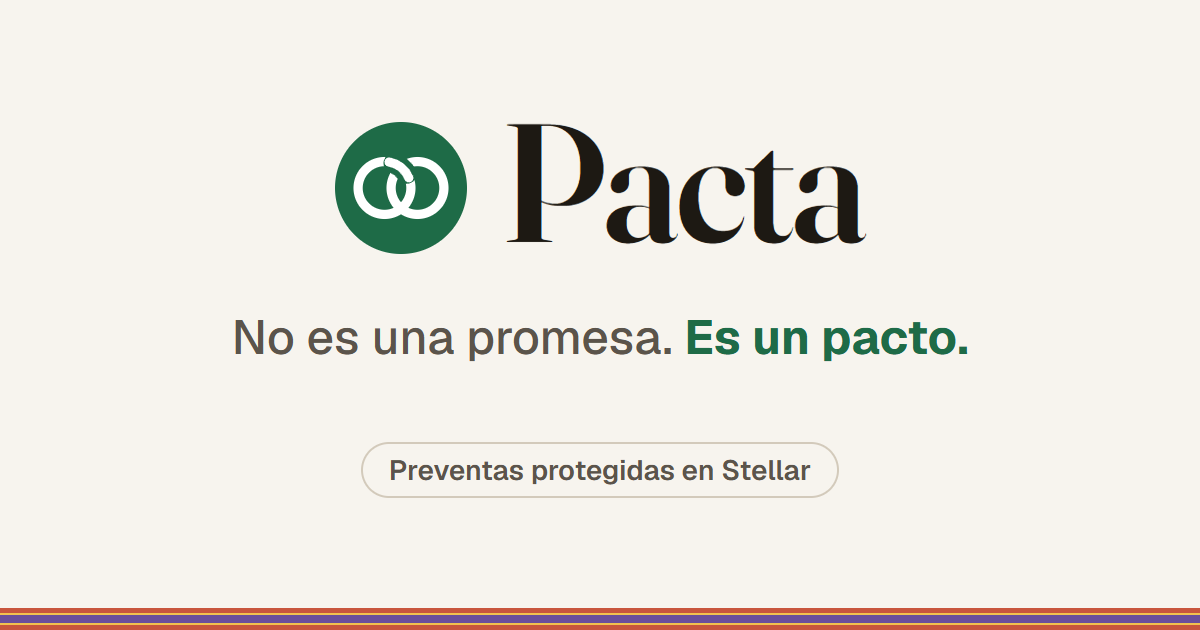
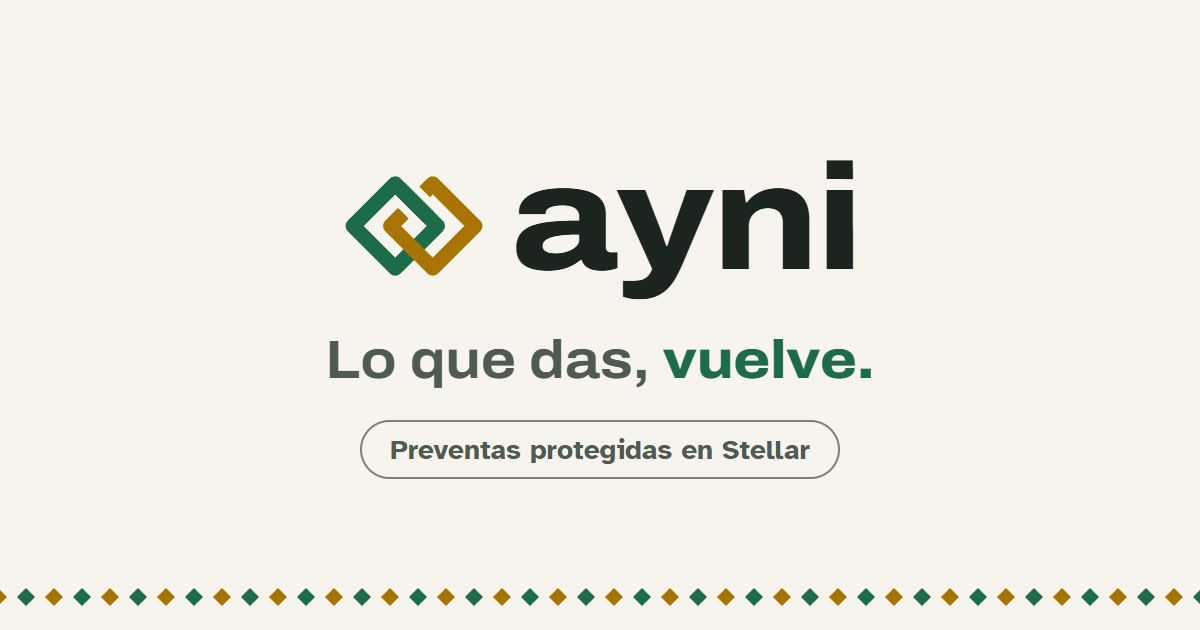
Ayni stage 2: rename Pacta to Ayni (user-visible only)
- AyniMark replaces PactaMark: two diamonds woven like a stitch, green over
  amber at the top, amber over green at the bottom, in token colors. The
  over-under gap is an SVG mask so the mark works on any surface. The
  wordmark is lowercase "ayni" in Archivo at width 115.
- Tagline "Lo que das, vuelve." replaces "No es una promesa. Es un pacto."
  The footer explains ayni in one line.
- Metadata, page titles, header label, link previews, share text, copy in
  pages and components, glossary, test verifier label, and the error
  strings in wizard.ts and despensa.ts (strings only).
- icon.svg (dark-mode aware), apple-icon.png and opengraph-image.png
  redrawn; OG alt text updated.
- Link preview text no longer promises a refund in every case: it says
  the 100% comes back when the minimum isn't reached.
- UI.md and both READMEs use the new name; internal identifiers unchanged.

diff --git a/app/src/components/Logo.tsx b/app/src/components/Logo.tsx
@@ -1,32 +1,56 @@
-// The Pacta mark and wordmark, drawn from the intro video (video/scene.js, mark()):
-// a brand disc with two interlocking rings, the left ring passing over the right one at the top.
-// Colors come from tokens, so the mark follows light and dark mode.
+import { useId } from "react";
 
-const RING = 2.24;
+// The Ayni mark and wordmark (design board "Tejido", docs/design/01–07): two diamonds, green and amber,
+// woven like a stitch. The green one passes over the amber one at the top crossing and under it at the
+// bottom, so neither sits on top of the other: reciprocity. Colors come from tokens, so the mark follows
+// light and dark mode.
+//
+// The board draws the over-under with a stroke in the page color. Here the gap is a mask on the amber
+// diamond instead, so the mark works on any surface (page, card, toast, poster) without knowing its color.
 
-export function PactaMark({ className = "size-7", title }: { className?: string; title?: string }) {
+/** Geometry on a 32×32 grid, shared with the puntada animation. */
+export const MARK = {
+  stroke: 3.2,
+  left: "M12 7 L21 16 L12 25 L3 16 Z",
+  right: "M20 7 L29 16 L20 25 L11 16 Z",
+  /** Where the green strand crosses over the amber one: the gap is cut along this line. */
+  cut: "M13.6 8.6 L18.4 13.4",
+  /** The green strand redrawn over the gap. */
+  over: "M13 8 L19 14",
+} as const;
+
+export type MarkTone = "brand" | "inverse";
+
+const TONE: Record<MarkTone, { left: string; right: string }> = {
+  brand: { left: "stroke-brand", right: "stroke-accent" },
+  // On the inverse surface (bg-ink: toasts), the green strand turns pale so it reads on dark and light ink.
+  inverse: { left: "stroke-brand-soft", right: "stroke-accent" },
+};
+
+export function AyniMark({ className = "size-7", title, tone = "brand" }: { className?: string; title?: string; tone?: MarkTone }) {
+  const maskId = `ayni-cut-${useId().replace(/[^a-zA-Z0-9_-]/g, "")}`;
   const a11y = title ? { role: "img", "aria-label": title } : { "aria-hidden": true };
+  const t = TONE[tone];
   return (
-    <svg viewBox="0 0 32 32" className={`shrink-0 ${className}`} {...a11y}>
-      <circle cx="16" cy="16" r="16" className="fill-brand" />
-      <g fill="none" strokeLinecap="round" className="stroke-brand-ink" strokeWidth={RING}>
-        <circle cx="12" cy="16" r="6.4" />
-        <circle cx="20" cy="16" r="6.4" />
-      </g>
-      {/* Over-under: cut the right ring where the left one crosses it, then redraw the left ring on top. */}
-      <path d="M14.225 9.999A6.4 6.4 0 0 1 17.369 12.516" fill="none" strokeLinecap="round" strokeWidth={4.93} className="stroke-brand" />
-      <path d="M13.115 9.698A6.4 6.4 0 0 1 17.906 13.533" fill="none" strokeLinecap="round" strokeWidth={RING} className="stroke-brand-ink" />
+    <svg viewBox="0 0 32 32" fill="none" strokeLinejoin="round" className={`shrink-0 ${className}`} {...a11y}>
+      <mask id={maskId} maskUnits="userSpaceOnUse" x="0" y="0" width="32" height="32">
+        <rect width="32" height="32" fill="#fff" />
+        <path d={MARK.cut} stroke="#000" strokeWidth={MARK.stroke * 2} strokeLinecap="butt" />
+      </mask>
+      <path d={MARK.left} strokeWidth={MARK.stroke} className={t.left} />
+      <path d={MARK.right} strokeWidth={MARK.stroke} className={t.right} mask={`url(#${maskId})`} />
+      <path d={MARK.over} strokeWidth={MARK.stroke} strokeLinecap="butt" className={t.left} />
     </svg>
   );
 }
 
-/** Mark + "Pacta" in the display face. `size` scales both. */
+/** Mark + "ayni" (lowercase, as on the boards) in Archivo at width 115. `size` scales both. */
 export function Logo({ size = "md", className = "" }: { size?: "md" | "lg"; className?: string }) {
-  const s = size === "lg" ? { mark: "size-9", text: "text-3xl" } : { mark: "size-7", text: "text-xl" };
+  const s = size === "lg" ? { mark: "size-9", text: "text-[1.875rem]" } : { mark: "size-8", text: "text-2xl" };
   return (
     <span className={`inline-flex items-center gap-2 ${className}`}>
-      <PactaMark className={s.mark} />
-      <span className={`font-display font-semibold tracking-tight text-ink ${s.text}`}>Pacta</span>
+      <AyniMark className={s.mark} />
+      <span className={`font-display leading-none font-extrabold tracking-[-0.01em] text-ink [font-stretch:115%] ${s.text}`}>ayni</span>
     </span>
   );
 }

diff --git a/app/src/app/layout.tsx b/app/src/app/layout.tsx
@@ -3,7 +3,7 @@ import Link from "next/link";
 import { Archivo, Atkinson_Hyperlegible } from "next/font/google";
 import "@pollar/react/styles.css";
 import "./globals.css";
-import { PactaMark } from "@/components/Logo";
+import { AyniMark } from "@/components/Logo";
 import { SiteHeader } from "@/components/SiteHeader";
 import { Providers } from "@/components/Wallet";
 
@@ -21,11 +21,11 @@ const SITE_URL =
 
 export const metadata: Metadata = {
   metadataBase: new URL(SITE_URL),
-  applicationName: "Pacta",
-  title: { default: "Pacta · No es una promesa. Es un pacto.", template: "%s · Pacta" },
+  applicationName: "Ayni",
+  title: { default: "Ayni · Lo que das, vuelve.", template: "%s · Ayni" },
   description: DESCRIPTION,
-  openGraph: { siteName: "Pacta", type: "website", locale: "es_BO", title: "Pacta", description: DESCRIPTION },
-  twitter: { card: "summary_large_image", title: "Pacta", description: DESCRIPTION },
+  openGraph: { siteName: "Ayni", type: "website", locale: "es_BO", title: "Ayni · Lo que das, vuelve.", description: DESCRIPTION },
+  twitter: { card: "summary_large_image", title: "Ayni · Lo que das, vuelve.", description: DESCRIPTION },
 };
 
 export const viewport: Viewport = {
@@ -46,16 +46,19 @@ export default function RootLayout({ children }: Readonly<{ children: React.Reac
           <footer className="mx-auto mt-8 max-w-6xl border-t border-line px-4 pt-6 pb-28 text-sm text-ink-2 lg:pb-10 print:hidden">
             <div className="flex flex-wrap items-center justify-between gap-x-6 gap-y-3">
               <p className="flex items-center gap-2">
-                <PactaMark className="size-5" />
+                <AyniMark className="size-6" />
                 <span>
-                  <b className="font-semibold text-ink">Pacta.</b> No es una promesa. Es un pacto.
+                  <b className="font-semibold text-ink">Ayni.</b> Lo que das, vuelve.
                 </span>
               </p>
               <Link href="/transparencia" className="link">
                 Transparencia: el contrato en vivo
               </Link>
             </div>
-            <p className="mt-3">Stellar testnet · Hackathon Stellar Bolivia 2026 · Los montos son de prueba.</p>
+            <p className="mt-3">
+              <i>Ayni</i> es la reciprocidad andina: hoy por ti, mañana por mí.
+            </p>
+            <p className="mt-1">Stellar testnet · Hackathon Stellar Bolivia 2026 · Los montos son de prueba.</p>
           </footer>
         </Providers>
       </body>

diff --git a/app/src/app/campaign/[id]/page.tsx b/app/src/app/campaign/[id]/page.tsx
@@ -25,7 +25,7 @@ export async function generateMetadata({ params }: { params: Promise<{ id: strin
     const price = formatMoney(c.unit_price, decimalsFor(category));
     const description = [
       `${price} por ${category.unit.singular}, precio bloqueado.`,
-      "Tu pago queda protegido en Stellar hasta que recibes tu pedido; si no se cumple, se te devuelve.",
+      "Tu pago queda protegido en Stellar hasta que recibes tu pedido. Si no se llega al mínimo, se te devuelve el 100%.",
       meta.description,
     ]
       .filter(Boolean)
@@ -38,11 +38,11 @@ export async function generateMetadata({ params }: { params: Promise<{ id: strin
       openGraph: {
         title: c.title,
         description,
-        siteName: "Pacta",
+        siteName: "Ayni",
         type: "website",
         locale: "es_BO",
         // A route's openGraph replaces the parent's, so fall back to the site card explicitly.
-        images: [image ? { url: image } : { url: "/opengraph-image.png", width: 1200, height: 630, alt: "Pacta" }],
+        images: [image ? { url: image } : { url: "/opengraph-image.png", width: 1200, height: 630, alt: "Ayni: Lo que das, vuelve. Preventas protegidas en Stellar." }],
       },
       twitter: { card: "summary_large_image", title: c.title, description, images: [image ?? "/opengraph-image.png"] },
     };

diff --git a/app/src/lib/wizard.ts b/app/src/lib/wizard.ts
@@ -203,7 +203,7 @@ export function validateStep(step: WizardStep, d: CampaignDraft, ctx: Validation
       const v = d.verifier.trim();
       if (!ctx.isAddress(v)) e.verifier = "Ingresa la dirección de Stellar del verificador (empieza con G…).";
       else if (ctx.me && v === ctx.me) e.verifier = "El verificador tiene que ser otra persona o institución.";
-      else if (ctx.verifierAllowed === false) e.verifier = "Este verificador no está autorizado en Pacta. Elige uno de la lista o pide que lo autoricen.";
+      else if (ctx.verifierAllowed === false) e.verifier = "Este verificador no está autorizado en Ayni. Elige uno de la lista o pide que lo autoricen.";
       const size = inlineEstimate(d);
       if (size > INLINE_HARD_LIMIT) e.size = `Los detalles ocupan ${size} bytes (máximo ${INLINE_HARD_LIMIT}). Acorta la descripción.`;
       break;

diff --git a/app/src/app/p/[address]/ProducerProfile.tsx b/app/src/app/p/[address]/ProducerProfile.tsx
@@ -87,7 +87,7 @@ export default function ProducerProfile({ address }: { address: string }) {
               <>solo puede vender con pago contra entrega hasta cumplir 3 preventas seguidas por cada incumplimiento.</>
             )}
           </p>
-          <p className="text-sm text-ink-2">Este historial está en el contrato de Stellar: nadie, ni Pacta, puede editarlo ni borrar un incumplimiento.</p>
+          <p className="text-sm text-ink-2">Este historial está en el contrato de Stellar: nadie, ni Ayni, puede editarlo ni borrar un incumplimiento.</p>
           <details className="group">
             <summary className="inline-flex min-h-11 cursor-pointer list-none items-center gap-1 text-sm font-semibold text-brand">
               Ver todas las cifras

diff --git a/app/src/lib/despensa.ts b/app/src/lib/despensa.ts
@@ -129,7 +129,7 @@ const ERRORS: Record<number, [string, string]> = {
   16: ["DisputeOpen", "Hay una disputa abierta."],
   17: ["NoDispute", "No hay una disputa abierta."],
   18: ["MinNotReached", "Aún no se alcanzó la meta mínima de ventas."],
-  19: ["VerifierNotAllowed", "Este verificador no está autorizado. Elige uno de la lista o pide a Pacta que lo autorice."],
+  19: ["VerifierNotAllowed", "Este verificador no está autorizado. Elige uno de la lista o pide a Ayni que lo autorice."],
   20: ["WindowOutOfRange", "El plazo de disputa debe estar entre 1 y 30 días."],
   21: ["TooLong", "El texto es demasiado largo. Acórtalo e inténtalo de nuevo."],
   22: ["NoPendingAdmin", "No hay un cambio de administrador pendiente."],

diff --git a/app/src/app/producer/new/CreateWizard.tsx b/app/src/app/producer/new/CreateWizard.tsx
@@ -837,8 +837,8 @@ function Published({ id, onAnother }: { id: bigint; onAnother: () => void }) {
           <ShareButton
             className="justify-center"
             path={`/campaign/${id.toString()}`}
-            title="Mi preventa en Pacta"
-            text="Abrí mi preventa en Pacta: compras hoy a precio fijo y tu pago queda protegido hasta que te entrego."
+            title="Mi preventa en Ayni"
+            text="Abrí mi preventa en Ayni: compras hoy a precio fijo y tu pago queda protegido hasta que te entrego."
           />
           <Link href={`/campaign/${id.toString()}/cartel`} className="btn-ghost">
             <Printer className="size-4" aria-hidden /> Imprimir un cartel con QR para tu puesto

diff --git a/app/src/app/transparencia/page.tsx b/app/src/app/transparencia/page.tsx
@@ -56,7 +56,7 @@ export default function TransparencyPage() {
       <header className="max-w-3xl space-y-3">
         <h1 className="h-page">Transparencia</h1>
         <p className="text-ink-2">
-          Todo lo que ves aquí se lee en vivo del contrato de Pacta en Stellar. Nadie, ni nosotros, puede editar estos números: cualquiera
+          Todo lo que ves aquí se lee en vivo del contrato de Ayni en Stellar. Nadie, ni nosotros, puede editar estos números: cualquiera
           puede comprobarlos en el explorador.
         </p>
         <p className="flex flex-wrap gap-x-5 gap-y-2 text-sm">

diff --git a/app/src/app/producer/layout.tsx b/app/src/app/producer/layout.tsx
@@ -1,7 +1,7 @@
 import type { Metadata } from "next";
 
-// `absolute` keeps "Productores · Pacta" here; `template` keeps the suffix on child pages (wizard, delivery).
-export const metadata: Metadata = { title: { absolute: "Productores · Pacta", template: "%s · Pacta" } };
+// `absolute` keeps "Productores · Ayni" here; `template` keeps the suffix on child pages (wizard, delivery).
+export const metadata: Metadata = { title: { absolute: "Productores · Ayni", template: "%s · Ayni" } };
 
 export default function Layout({ children }: { children: React.ReactNode }) {
   return children;

diff --git a/app/src/app/page.tsx b/app/src/app/page.tsx
@@ -212,7 +212,7 @@ function HowItWorks() {
           <b>1. Compras hoy</b> al precio de hoy, en dólares digitales.
         </li>
         <li>
-          <b>2. Tu pago queda en custodia</b> en un contrato de Stellar: ni el productor ni Pacta pueden tocarlo.
+          <b>2. Tu pago queda en custodia</b> en un contrato de Stellar: ni el productor ni Ayni pueden tocarlo.
         </li>
         <li>
           <b>3. Recibes y confirmas.</b> Recién ahí cobra el productor. Si no cumple o no llega a la meta, se te devuelve.

diff --git a/app/src/components/SiteHeader.tsx b/app/src/components/SiteHeader.tsx
@@ -35,7 +35,7 @@ export function SiteHeader() {
     <>
       <header className="sticky top-0 z-30 border-b border-line bg-bg print:hidden">
         <nav className="mx-auto flex max-w-6xl items-center justify-between gap-3 px-4 py-3" aria-label="Principal">
-          <Link href="/" aria-label="Pacta, inicio" className="rounded-md">
+          <Link href="/" aria-label="Ayni, inicio" className="rounded-md">
             <Logo />
           </Link>
           <div className="flex items-center gap-1 text-sm">

diff --git a/app/src/app/producer/deliver/page.tsx b/app/src/app/producer/deliver/page.tsx
@@ -42,7 +42,7 @@ function Deliver() {
   if (!ok) {
     return (
       <EmptyState icon={<QrCode className="size-10" />} title="Este código QR no es válido" action={{ href: "/producer", label: "Ir a mi panel" }}>
-        Pide al comprador que vuelva a abrir su vale en Pacta y escanea el código otra vez.
+        Pide al comprador que vuelva a abrir su vale en Ayni y escanea el código otra vez.
       </EmptyState>
     );
   }
